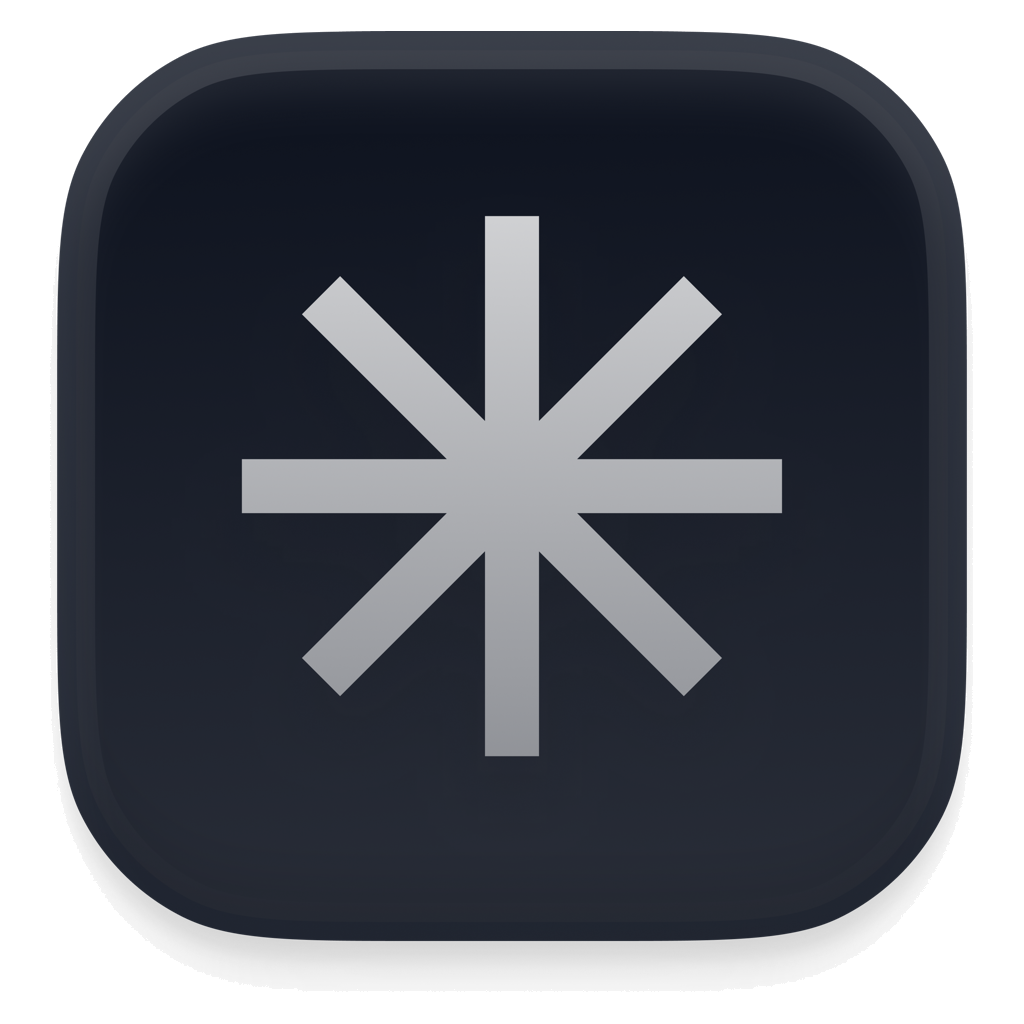
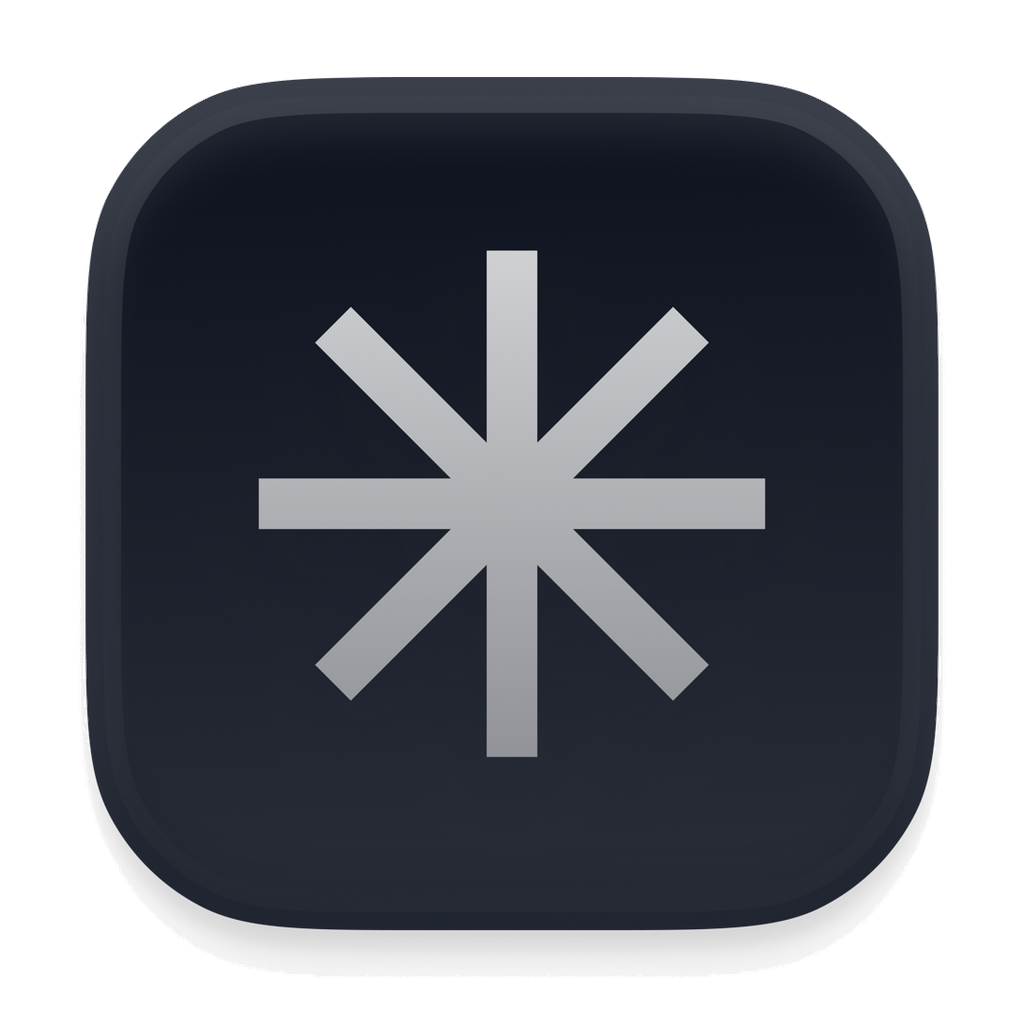
mobile: refine chat composer and tab order

diff --git a/apps/mobile/components/composer/message-composer.tsx b/apps/mobile/components/composer/message-composer.tsx
@@ -1,11 +1,9 @@
 /**
  * Shared message composer used by both the issue-comment thread and the
- * chat tab. Two visual states:
+ * chat tab. Always renders as a full input card:
  *
- *   collapsed → pill button (configurable label / icon). Minimal vertical
- *               footprint so the list above gets the full screen.
- *   expanded  → optional reply chip → chip row (@ + image + file) →
- *               plain TextInput → toolbar (`@ 📷 📎 ──── [➤ or Stop]`).
+ *   optional reply chip → chip row (@ + image + file) → plain TextInput
+ *   → toolbar (`@ 📷 📎 ──── [➤ or Stop]`).
  *
  * Mentions / images / files all live in the chip row OUTSIDE the text
  * input. The input itself is a plain RN `<TextInput multiline>` — no
@@ -73,8 +71,8 @@ export interface MessageComposerReplyTarget {
 interface Props {
   /** Submit callback. Composer awaits this; on rejection it restores text,
    *  attachments, and mentions so the user can retry without losing
-   *  context. Resolved promise → text + chips cleared, composer collapses
-   *  back to pill. */
+   *  context. Resolved promise clears the current draft and dismisses the
+   *  keyboard. */
   onSubmit: (args: {
     content: string;
     attachmentIds: string[];
@@ -91,8 +89,6 @@ interface Props {
   uploadContext?: { issueId?: string; commentId?: string };
 
   placeholder?: string;
-  pillLabel?: string;
-  pillIcon?: keyof typeof Ionicons.glyphMap;
 
   /** Optional controlled-text mode. When `value` + `onChangeText` are
    *  both provided, the parent owns the draft (chat: persists to its
@@ -105,10 +101,10 @@ interface Props {
   replyTarget?: MessageComposerReplyTarget | null;
   onClearReplyTarget?: () => void;
 
-  /** Composer enters "auto-expanded + focused" mode when this changes to
-   *  a truthy stable key. Comment uses it to react to long-press → reply
-   *  flow. Chat doesn't pass it. */
-  expandTrigger?: string | null;
+  /** Focus request key. When this changes to a truthy stable value, the
+   *  composer focuses its TextInput. Comment uses it to react to
+   *  long-press → reply flow. Chat doesn't pass it. */
+  focusTrigger?: string | null;
 
   /** When `isSending` is true AND `renderStop` is provided, the trailing
    *  send button is replaced by whatever `renderStop` returns. Chat uses
@@ -116,9 +112,8 @@ interface Props {
   isSending?: boolean;
   renderStop?: () => ReactNode;
 
-  /** Hard-disable. Used when chat has no usable agent. The pill shows
-   *  `disabledReason` instead of `pillLabel`, and the pill is
-   *  non-interactive (cannot expand). */
+  /** Hard-disable. Used when chat has no usable agent or the session is
+   *  archived. */
   disabled?: boolean;
   disabledReason?: string;
 
@@ -157,13 +152,11 @@ export function MessageComposer({
   mentionPickerPath,
   uploadContext,
   placeholder = "Type a message…",
-  pillLabel = "Type a message…",
-  pillIcon = "chatbubble-ellipses-outline",
   value: controlledValue,
   onChangeText: controlledOnChange,
   replyTarget = null,
   onClearReplyTarget,
-  expandTrigger,
+  focusTrigger,
   isSending = false,
   renderStop,
   disabled = false,
@@ -174,7 +167,6 @@ export function MessageComposer({
   const theme = THEME[colorScheme];
   const insets = useSafeAreaInsets();
   const inputRef = useRef<TextInput>(null);
-  const [expanded, setExpanded] = useState(false);
   const [internalText, setInternalText] = useState("");
   const [attachments, setAttachments] = useState<ComposerAttachmentItem[]>([]);
   const [submitting, setSubmitting] = useState(false);
@@ -208,18 +200,13 @@ export function MessageComposer({
     };
   }, [clearMentions]);
 
-  // Auto-expand + focus when an `expandTrigger` changes. Comment uses
-  // this to react to the long-press → reply flow setting a reply target.
   const triggerSeen = useRef<string | null>(null);
-  if (
-    expandTrigger &&
-    triggerSeen.current !== expandTrigger &&
-    !disabled
-  ) {
-    triggerSeen.current = expandTrigger;
-    setExpanded(true);
+  useEffect(() => {
+    if (!focusTrigger || disabled) return;
+    if (triggerSeen.current === focusTrigger) return;
+    triggerSeen.current = focusTrigger;
     requestAnimationFrame(() => inputRef.current?.focus());
-  }
+  }, [focusTrigger, disabled]);
 
   const hasInFlightUpload = attachments.some((a) => a.status === "uploading");
   const canSend =
@@ -228,17 +215,6 @@ export function MessageComposer({
     !submitting &&
     !hasInFlightUpload &&
     (text.trim().length > 0 || mentions.length > 0);
-
-  const expand = useCallback(() => {
-    if (disabled) return;
-    Haptics.impactAsync(Haptics.ImpactFeedbackStyle.Light).catch(() => {});
-    setExpanded(true);
-    // Tapping the pill = "I want to write a new message". Drop any
-    // lingering reply target so a stale chip from a prior long-press →
-    // dismiss-without-send cycle doesn't bleed into the fresh draft.
-    onClearReplyTarget?.();
-    requestAnimationFrame(() => inputRef.current?.focus());
-  }, [disabled, onClearReplyTarget]);
 
   const handleSubmit = useCallback(async () => {
     if (!canSend) return;
@@ -275,11 +251,9 @@ export function MessageComposer({
       });
       // Success → fully exit composing mode. Explicit triple-step
       // because a missing blur leaves the keyboard up; missing
-      // Keyboard.dismiss races on iOS when focus is in-flight; missing
-      // setExpanded(false) leaves the expanded card on screen.
+      // Keyboard.dismiss races on iOS when focus is in-flight.
       inputRef.current?.blur();
       Keyboard.dismiss();
-      setExpanded(false);
     } catch {
       setText(textSnap);
       setAttachments(attachmentsSnap);
@@ -430,52 +404,10 @@ export function MessageComposer({
     router.push(mentionPickerPath);
   }, [mentionPickerPath]);
 
-  /** Auto-collapse to pill when input loses focus AND nothing's worth
-   *  keeping the composer expanded for. Deferred one tick so a toolbar
-   *  IconButton tap (which briefly resigns first responder) doesn't
-   *  trigger a collapse before its onPress runs. */
-  const onBlur = useCallback(() => {
-    setTimeout(() => {
-      const empty =
-        text.trim().length === 0 &&
-        attachments.length === 0 &&
-        mentions.length === 0;
-      if (empty && !inputRef.current?.isFocused()) {
-        setExpanded(false);
-        onClearReplyTarget?.();
-      }
-    }, 80);
-  }, [text, attachments.length, mentions.length, onClearReplyTarget]);
-
-  const pillContent = (
-    <View
-      className="border-t border-border bg-background px-3 pt-2"
-      style={{ paddingBottom: (manageKeyboard ? insets.bottom : 0) + 8 }}
-    >
-      <Pressable
-        onPress={expand}
-        disabled={disabled}
-        accessibilityRole="button"
-        accessibilityLabel={pillLabel}
-        accessibilityState={{ disabled }}
-        className="flex-row items-center gap-2 h-11 px-4 rounded-full bg-secondary active:opacity-80"
-      >
-        <Ionicons
-          name={pillIcon}
-          size={18}
-          color={theme.mutedForeground}
-        />
-        <Text className="text-base text-muted-foreground">
-          {disabled && disabledReason ? disabledReason : pillLabel}
-        </Text>
-      </Pressable>
-    </View>
-  );
-
-  const expandedContent = (
+  const composerContent = (
     <View
       className="bg-background px-3 pt-2 gap-2"
-      style={{ paddingBottom: (manageKeyboard ? insets.bottom : 0) + 4 }}
+      style={{ paddingBottom: 4 }}
     >
       {replyTarget && (
         <View className="px-3 py-1.5 rounded-md bg-secondary/60 gap-0.5">
@@ -535,8 +467,7 @@ export function MessageComposer({
           ref={inputRef}
           value={text}
           onChangeText={setText}
-          onBlur={onBlur}
-          placeholder={placeholder}
+          placeholder={disabled && disabledReason ? disabledReason : placeholder}
           placeholderTextColor={theme.mutedForeground}
           multiline
           editable={!disabled}
@@ -592,15 +523,13 @@ export function MessageComposer({
     </View>
   );
 
-  const body = expanded ? expandedContent : pillContent;
-
   // Escape hatch for a parent container that already applies its own
   // keyboard lift/inset policy.
-  if (!manageKeyboard) return body;
+  if (!manageKeyboard) return composerContent;
 
   return (
-    <KeyboardStickyView offset={{ closed: 0, opened: insets.bottom }}>
-      {body}
+    <KeyboardStickyView offset={{ closed: insets.bottom, opened: 0 }}>
+      {composerContent}
     </KeyboardStickyView>
   );
 }

diff --git a/apps/mobile/app/(app)/[workspace]/(tabs)/_layout.tsx b/apps/mobile/app/(app)/[workspace]/(tabs)/_layout.tsx
@@ -76,6 +76,21 @@ export default function TabsLayout() {
         }}
       >
         <Tabs.Screen
+          name="chat"
+          options={{
+            title: "Chat",
+            tabBarBadge: chatBadge,
+            tabBarBadgeStyle: BADGE_STYLE,
+            tabBarIcon: ({ color, size, focused }) => (
+              <Ionicons
+                name={focused ? "chatbubble" : "chatbubble-outline"}
+                color={color}
+                size={size}
+              />
+            ),
+          }}
+        />
+        <Tabs.Screen
           name="inbox"
           options={{
             title: "Inbox",
@@ -97,21 +112,6 @@ export default function TabsLayout() {
             tabBarIcon: ({ color, size, focused }) => (
               <Ionicons
                 name={focused ? "list" : "list-outline"}
-                color={color}
-                size={size}
-              />
-            ),
-          }}
-        />
-        <Tabs.Screen
-          name="chat"
-          options={{
-            title: "Chat",
-            tabBarBadge: chatBadge,
-            tabBarBadgeStyle: BADGE_STYLE,
-            tabBarIcon: ({ color, size, focused }) => (
-              <Ionicons
-                name={focused ? "chatbubble" : "chatbubble-outline"}
                 color={color}
                 size={size}
               />

diff --git a/apps/mobile/components/chat/chat-composer.tsx b/apps/mobile/components/chat/chat-composer.tsx
@@ -54,7 +54,7 @@ interface Props {
   /** Hard-disable typing + send. Used when there's no usable agent in the
    *  workspace or the session is archived (legacy). */
   disabled?: boolean;
-  /** When `disabled`, replaces the pill label with the reason. */
+  /** When `disabled`, explains why the card is read-only. */
   disabledReason?: string;
 }
 
@@ -103,14 +103,6 @@ export function ChatComposer({
         params: { workspace: wsSlug ?? "", mode: "chat" },
       }}
       placeholder={sending ? "Agent is working…" : "Message…"}
-      pillLabel={
-        sending
-          ? "Agent is working…"
-          : disabled
-            ? (disabledReason ?? "Chat unavailable")
-            : "Message…"
-      }
-      pillIcon="chatbubble-ellipses-outline"
       disabled={disabled}
       disabledReason={disabledReason}
       isSending={sending}

diff --git a/apps/mobile/components/issue/timeline-list.tsx b/apps/mobile/components/issue/timeline-list.tsx
@@ -384,9 +384,9 @@ export function TimelineList({
         ListHeaderComponent={ListHeader}
         // Drag-to-dismiss keyboard — when the user scrolls the timeline
         // while the composer keyboard is up, the keyboard slides down
-        // interactively (iMessage / WhatsApp / Slack idiom). Pairs with the
-        // composer's `onBlur` → auto-collapse to pill: scroll dismisses
-        // keyboard → TextInput blurs → composer collapses if empty.
+        // interactively (iMessage / WhatsApp / Slack idiom). The composer
+        // itself stays mounted as a full input card; only the keyboard
+        // dismisses.
         keyboardDismissMode="on-drag"
         // Tap-on-row inside the list (long-press a comment, tap a
         // reaction) should still register even when the keyboard is up.

diff --git a/apps/mobile/components/issue/inline-comment-composer.tsx b/apps/mobile/components/issue/inline-comment-composer.tsx
@@ -57,8 +57,6 @@ export function InlineCommentComposer({ issueId }: { issueId: string }) {
       }}
       uploadContext={{ issueId }}
       placeholder="Add a comment…"
-      pillLabel="Add a comment, @ to mention…"
-      pillIcon="chatbubble-ellipses-outline"
       replyTarget={
         replyTarget
           ? {
@@ -68,7 +66,7 @@ export function InlineCommentComposer({ issueId }: { issueId: string }) {
           : null
       }
       onClearReplyTarget={clearReplyTarget}
-      expandTrigger={replyTarget?.commentId ?? null}
+      focusTrigger={replyTarget?.commentId ?? null}
     />
   );
 }